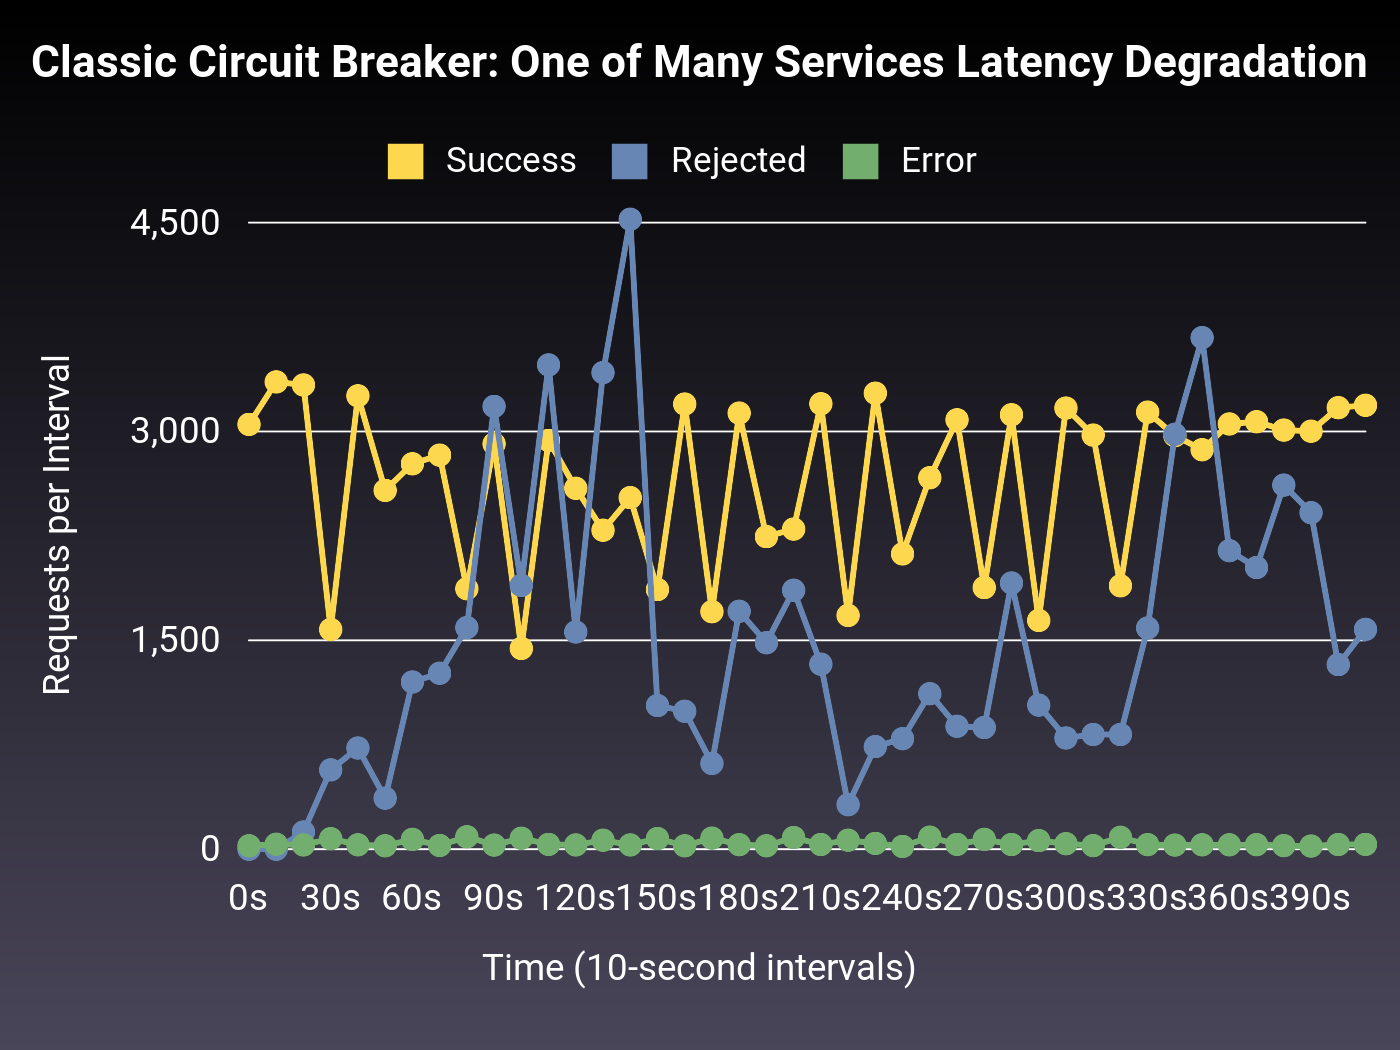
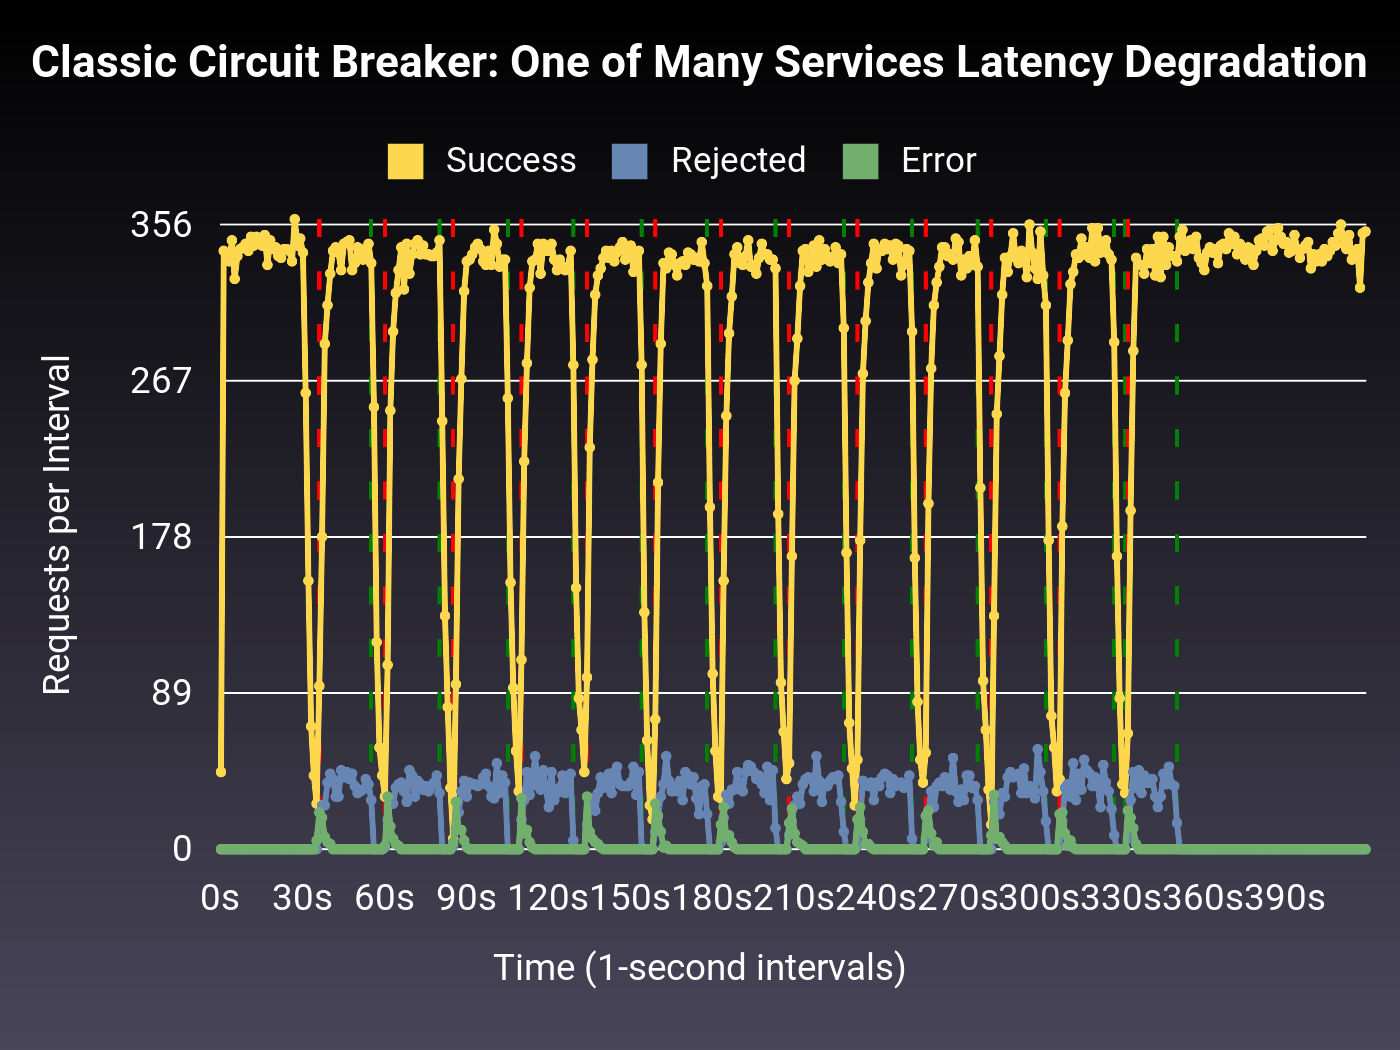
add vertical lines on classic CB state changes and more helper flexibility

Changed region(s): [[0.0921, 0.1829, 0.9829, 0.8838], [0.3379, 0.9143, 0.645, 0.9448]]

diff --git a/experiments/test_helpers.rb b/experiments/test_helpers.rb
@@ -28,7 +28,9 @@ module Semian
         num_threads: 60,
         requests_per_second_per_thread: 50,
         x_axis_label_interval: nil,
-        service_count: 1
+        service_count: 1,
+        graph_bucket_size: nil,
+        base_error_rate: nil
       )
         @test_name = test_name
         @resource_name = resource_name
@@ -44,6 +46,8 @@ module Semian
         @test_duration = degradation_phases.length * phase_duration
         @service_count = service_count
         @target_service = nil
+        @graph_bucket_size = graph_bucket_size || (@is_adaptive ? 10 : 1)
+        @base_error_rate = base_error_rate.nil? ? (@is_adaptive ? 0.01 : 0.0) : base_error_rate
       end
 
       def run
@@ -71,7 +75,7 @@ module Semian
               mean: 0.15,
               std_dev: 0.05,
             },
-            error_rate: 0.01,
+            error_rate: @base_error_rate,
             timeout: 5,
           )
         end
@@ -105,9 +109,12 @@ module Semian
         @pid_snapshots = []
         @pid_mutex = Mutex.new
         @thread_timings = {}
+        @state_transitions = []
+        @state_transitions_mutex = Mutex.new
 
         start_request_threads
         subscribe_to_metrics if @is_adaptive
+        subscribe_to_state_changes unless @is_adaptive
       end
 
       def start_request_threads
@@ -203,6 +210,22 @@ module Semian
         end
       end
 
+      def subscribe_to_state_changes
+        target_resource_name = "#{@resource_name}_#{@target_service.object_id}".to_sym
+        
+        @subscription = Semian.subscribe do |event, resource, _scope, _adapter, payload|
+          # Only capture state_change events for our target service resource
+          next unless event == :state_change && resource.name == target_resource_name
+
+          @state_transitions_mutex.synchronize do
+            @state_transitions << {
+              timestamp: Time.now.to_i,
+              state: payload[:state],
+            }
+          end
+        end
+      end
+
       def execute_phases
         puts "\n=== #{@test_name} (ADAPTIVE) ==="
         puts "Error rate: #{@degradation_phases.map { |r| r.error_rate ? "#{(r.error_rate * 100).round(1)}%" : "N/A" }.join(" -> ")}"
@@ -288,7 +311,7 @@ module Semian
           status = bucket_circuit > 0 ? "⚡" : "✓"
 
           degradation_phase = @degradation_phases[bucket_idx] || @degradation_phases.last
-          phase_error_rate = degradation_phase.error_rate || @target_service.base_error_rate
+          phase_error_rate = degradation_phase.error_rate || @base_error_rate
           phase_label = "[Target: #{(phase_error_rate * 100).round(1)}%]"
 
           puts "#{status} #{bucket_time_range} #{phase_label}: #{bucket_total} requests | Success: #{bucket_success} | Errors: #{bucket_errors} (#{error_pct}%) | Rejected: #{bucket_circuit} (#{circuit_pct}%)"
@@ -365,14 +388,14 @@ module Semian
         puts "\nGenerating visualization..."
         require "gruff"
 
-        # Aggregate data into 10-second buckets for detailed visualization
-        small_bucket_size = 10
-        num_small_buckets = (@test_duration / small_bucket_size.to_f).ceil
+        # Aggregate data into buckets for detailed visualization
+        bucket_size = @graph_bucket_size
+        num_buckets = (@test_duration / bucket_size.to_f).ceil
 
         bucketed_data = []
-        (0...num_small_buckets).each do |bucket_idx|
-          bucket_start = @outcomes.keys[0] + (bucket_idx * small_bucket_size)
-          bucket_end = bucket_start + small_bucket_size
+        (0...num_buckets).each do |bucket_idx|
+          bucket_start = @outcomes.keys[0] + (bucket_idx * bucket_size)
+          bucket_end = bucket_start + bucket_size
           bucket_data = @outcomes.select { |time, _| time >= bucket_start && time < bucket_end }
 
           bucket_samples = []
@@ -394,8 +417,8 @@ module Semian
 
         # Set x-axis labels
         labels = {}
-        (0...num_small_buckets).each do |i|
-          time_sec = i * small_bucket_size
+        (0...num_buckets).each do |i|
+          time_sec = i * bucket_size
           labels[i] = "#{time_sec}s" if time_sec % @x_axis_label_interval == 0
         end
 
@@ -405,7 +428,7 @@ module Semian
         # Generate main graph (requests)
         graph = Gruff::Line.new(1400)
         graph.title = @graph_title
-        graph.x_axis_label = "Time (10-second intervals)"
+        graph.x_axis_label = "Time (#{bucket_size}-second intervals)"
         graph.y_axis_label = "Requests per Interval"
         graph.hide_dots = false
         graph.line_width = 3
@@ -415,13 +438,18 @@ module Semian
         graph.data("Rejected", bucketed_data.map { |d| d[:circuit_open] })
         graph.data("Error", bucketed_data.map { |d| d[:error] })
 
+        # Add circuit state transition markers (for classic CB)
+        unless @is_adaptive
+          add_state_transition_markers(graph, bucketed_data, bucket_size, num_buckets)
+        end
+
         graph.write(@graph_filename)
         puts "Graph saved to #{@graph_filename}"
 
         # Generate duration graph
         duration_graph = Gruff::Line.new(1400)
         duration_graph.title = "#{@graph_title} - Total Request Duration"
-        duration_graph.x_axis_label = "Time (10-second intervals)"
+        duration_graph.x_axis_label = "Time (#{bucket_size}-second intervals)"
         duration_graph.y_axis_label = "Total Request Duration (seconds)"
         duration_graph.hide_dots = false
         duration_graph.line_width = 3
@@ -436,7 +464,7 @@ module Semian
         # Generate throughput graph
         throughput_graph = Gruff::Line.new(1400)
         throughput_graph.title = "#{@graph_title} - Total Request Throughput"
-        throughput_graph.x_axis_label = "Time (10-second intervals)"
+        throughput_graph.x_axis_label = "Time (#{bucket_size}-second intervals)"
         throughput_graph.y_axis_label = "Total Request Throughput"
         throughput_graph.hide_dots = false
         throughput_graph.line_width = 3
@@ -447,6 +475,33 @@ module Semian
         throughput_filename = @graph_filename.sub(%r{([^/]+)$}, 'throughput-\1')
         throughput_graph.write(throughput_filename)
         puts "Throughput graph saved to #{throughput_filename}"
+      end
+
+      def add_state_transition_markers(graph, bucketed_data, bucket_size, num_buckets)
+        return if @state_transitions.empty?
+
+        test_start = @outcomes.keys[0]
+        
+        @state_transitions.each_with_index do |transition, idx|
+          # Calculate which bucket this transition falls into
+          elapsed = transition[:timestamp] - test_start
+          bucket_idx = (elapsed / bucket_size).to_i
+          
+          next if bucket_idx < 0 || bucket_idx >= num_buckets
+          
+          # Add vertical reference line at this bucket index
+          color = case transition[:state]
+                  when :open then 'red'
+                  when :half_open then 'gray'
+                  when :closed then 'green'
+                  end
+
+          graph.reference_lines[:"transition_#{idx}"] = {
+            index: bucket_idx,
+            color: color,
+            width: 2
+          }
+        end
       end
     end
   end
